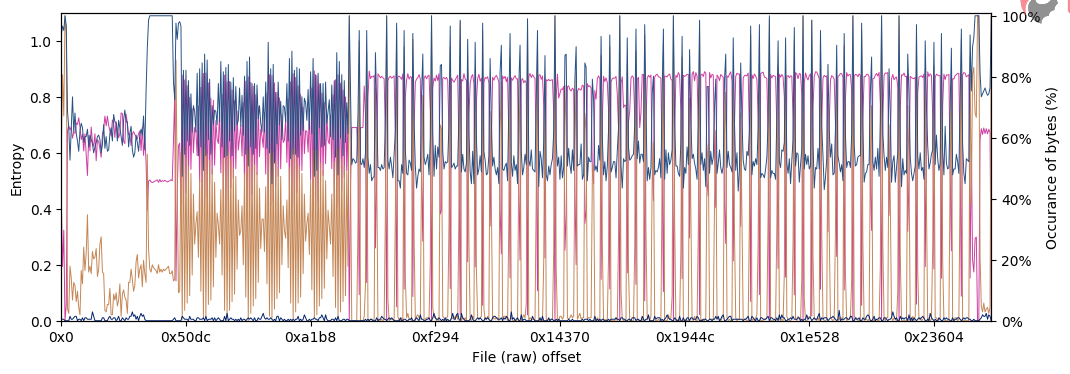
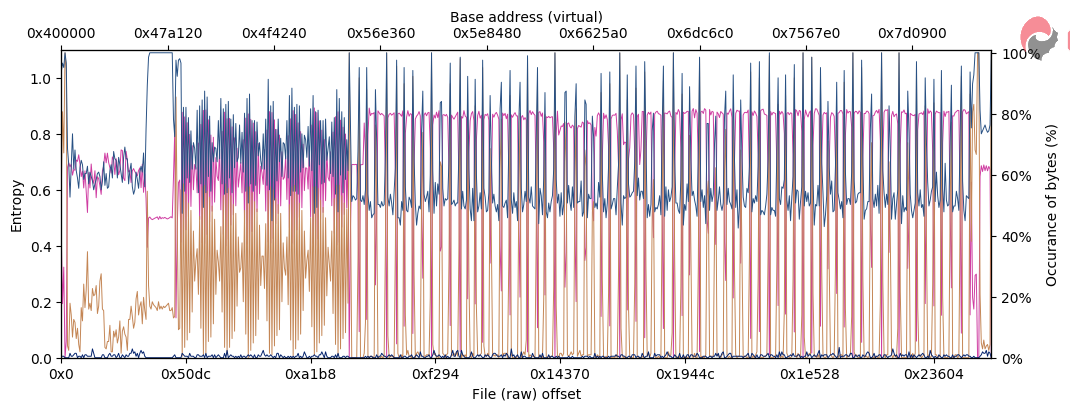
Test virtual offsets

diff --git a/exeGraph_mpl.py b/exeGraph_mpl.py
@@ -254,14 +254,14 @@ def file_ent(binname, frmt='png', figname=None, figsize=(12,4), chunks=750, ibyt
 
 
     # Filetype specific additions
-    # exebin = lief.parse(filepath=filename)
-    # if type(exebin) == lief.PE.Binary:
+    exebin = lief.parse(filepath=filename)
+    if type(exebin) == lief.PE.Binary:
 
-    #     # Set the virtual size axis
-    #     axPEvirt = axEnt.twiny()
-    #     axPEvirt.set_xlim([0,exebin.virtual_size+0x0400000])
-    #     axPEvirt.set_xlabel('Base address (virtual)')
-    #     axPEvirt.xaxis.set_major_formatter(ticker.FuncFormatter(lambda x, pos: ('0x%x') % (int(x+0x0400000))))
+        # Set the virtual size axis
+        axPEvirt = axEnt.twiny()
+        axPEvirt.set_xlim([0,exebin.virtual_size+0x0400000])
+        axPEvirt.set_xlabel('Base address (virtual)')
+        axPEvirt.xaxis.set_major_formatter(ticker.FuncFormatter(lambda x, pos: ('0x%x') % (int(x+0x0400000))))
 
 
     #     # # entrypoint pointer and line
